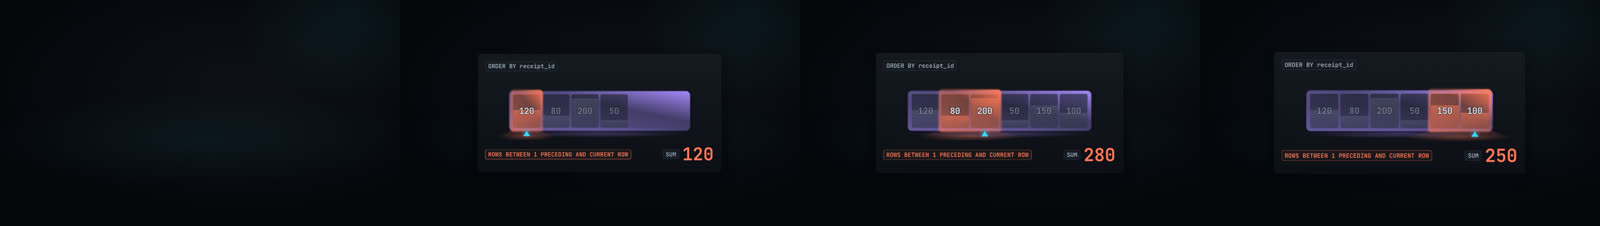
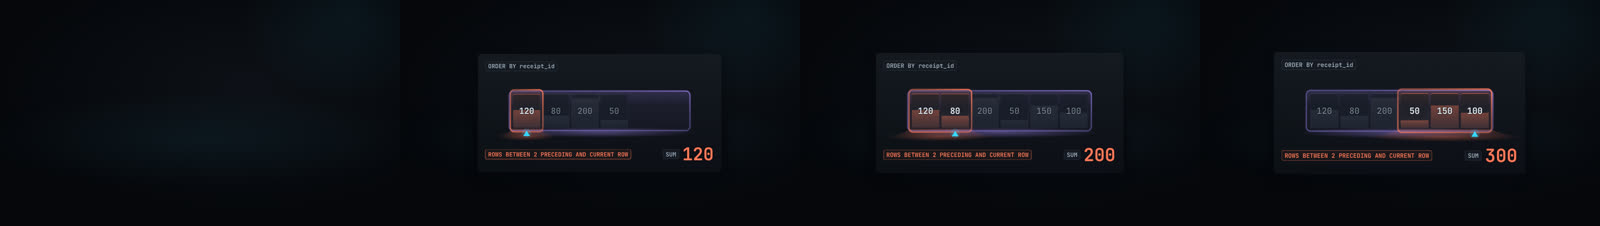
P7 data: WindowFrame finished (2-preceding frame demo over NilePay receipts d:5.2:1..6, frame sums 120/200/330/300 avoid film totals; snap PASS det 0 qa 0, baselines pending-critic; perf lite 0.065 / standard 0.079 / hero 0.080 box s/frame; Arabic QA pass)
Claude-Session: https://claude.ai/code/session_01VrU9wxU8GmuhdhWAAHnnQ8

diff --git a/studio/src/demos/data.tsx b/studio/src/demos/data.tsx
@@ -134,7 +134,8 @@ const demos: DemoModule = {
       },
     },
     {
-      // CH-12 windows over the NilePay receipts (d:5.2:1..6, amounts in EGP, ordered by receipt id): frame = 1 PRECEDING .. CURRENT ROW.
+      // CH-12 windows over the NilePay receipts (d:5.2:1..6, amounts in EGP, ordered by receipt id): frame = 2 PRECEDING .. CURRENT ROW
+      // (frame sums 120, 200, 330, 300: none equals the film's 400 / 250 / 150 totals, so no sum can be misread as one of them).
       name: 'WindowFrame',
       frames: 160,
       words: [
@@ -149,10 +150,10 @@ const demos: DemoModule = {
         layers: [
           {
             component: 'WindowFrame',
-            props: {id: 'win', order_by: 'receipt_id', frame_kind: 'rows', bounds: ['1 PRECEDING', 'CURRENT ROW'], values: [120, 80, 200, 50, 150, 100], ref: 'd:6.19:5'},
+            props: {id: 'win', order_by: 'receipt_id', frame_kind: 'rows', bounds: ['2 PRECEDING', 'CURRENT ROW'], values: [120, 80, 200, 50, 150, 100], ref: 'd:6.19:5'},
             at: {word: WF(1), lead_frames: 2},
           },
-          {component: 'WindowFrame.slide', props: {target: 'win', to: 2}, at: {word: WF(2), lead_frames: 2}},
+          {component: 'WindowFrame.slide', props: {target: 'win', to: 1}, at: {word: WF(2), lead_frames: 2}},
           {component: 'WindowFrame.slide', props: {target: 'win', to: 3}, at: {word: WF(3), lead_frames: 2}},
           {component: 'WindowFrame.slide', props: {target: 'win', to: 5}, at: {word: WF(4), lead_frames: 2}},
         ],

diff --git a/docs/p7/catalog_status/data.md b/docs/p7/catalog_status/data.md
@@ -4,3 +4,4 @@
 |---|---|---|
 | RowFunnel | implemented | One dot per surviving row (<= 30, else proportional bar with the dropped share in crit), funnel bands with directional light, dropped rows tumble out of the wall (arc, spin, trail), counter rolls on the `advance` word (RV1 onset, lands on the word end), stage rail, under-light pool. Demo = CH-11 funnel d:6.3:2 (14, 13, 11, 2, 2, 2, 2, 1; 8 stages, DISTINCT omitted because the frozen schema caps stages at 8: CR-007). Baselines pending-critic. Perf box s/frame at 3 slots: lite 0.106, standard 0.136, hero 0.136 (budgets 0.201 / 0.201 / 1.038). 2D SVG, no WebGL, so hero equals standard. |
 | JoinFusion | implemented | Two tables on rim-lit slabs over a floor grid (key chips, the `on` key lit), PK -> FK beams (4 px, soft under-glow, comet-trail spark; the fan-out beams and rows pulse warn before the fuse) between matching abstract rows (5 + 5 rows: 1:1, a 1:2 fan-out, unmatched; no digits or values invented), `fuse` slides the rows into the result of `kind` (inner / left / right / full / semi / anti / cross; NULL = hollow dashed ghost cells, dropped rows crit, fan-out rows warn edge, ok seam + light shaft + floor pool, a ghost stack under the result implies the rows beyond the six shown), `showUnmatched` rings unmatched rows in crit, `result_rows` (Num with ref, counter 1.4x) rolls up on the fuse word; an Arabic unit sits on the reading-start side of the number. Demo = CH-12 `customers LEFT JOIN orders`, 15 rows (d:6.4:1). Frozen schema has no row data, so the abstract rows are not the six real customers (CR-008 open: optional per-table key multiset). Critic round 1 fixes 1-6 applied (not re-reviewed; no motion strip yet). The beam layer is cropped to the gap between the tables: a full-frame SVG layer made raster tiles non-deterministic after another frame (det 870 px). Baselines pending-critic, snap PASS det 0 qa 0. Perf box s/frame at 3 slots: lite 0.076, standard 0.093, hero 0.094 (budgets 0.201 / 0.201 / 1.038); 2D DOM + SVG, hero equals standard. Arabic QA (العملاء, الطلبات, صف) pass. |
+| WindowFrame | implemented | Ordered rows of one partition as raised value cells (always LTR), a violet rim-lit partition slab (PARTITION BY chip), an ember glass frame computed from `frame_kind` / `bounds` (rows by offset, groups by peer value, range by value offset; strings fall back to rows) with a light shaft and floor pool, fading ghost of where it came from, signal marker under the current row, per-cell column proportional to \|value\|, and the frame SUM rolling with the frame (only when every value is numeric; arithmetic over the listed values, covered by the schema ref). `slide` moves the current row on its word (first step on the anchor frame, lands on the word end). 2.5D CSS + SVG, no WebGL, same render at every tier (tiers change only glow and grain). Demo = CH-12 NilePay receipts T1-T6 (120, 80, 200, 50, 150, 100 EGP, d:5.2:1..6, ref d:6.19:5), `2 PRECEDING .. CURRENT ROW`, frame sums 120, 200, 330, 300 (chosen so no sum equals the film's 400 / 250 / 150 totals). Frozen schema has no per-row labels or window result column, so the row ids T1-T6 are not shown. Snap PASS det 0 qa 0, baselines pending-critic. Perf box s/frame at 3 slots: lite 0.065, standard 0.079, hero 0.080 (budgets 0.201 / 0.201 / 1.038); hero equals standard. Arabic QA pass (demo copy is Latin SQL and numerals; no Arabic strings). |
